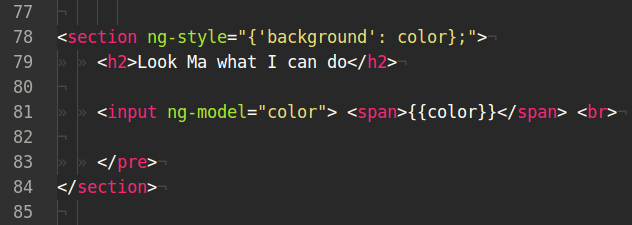
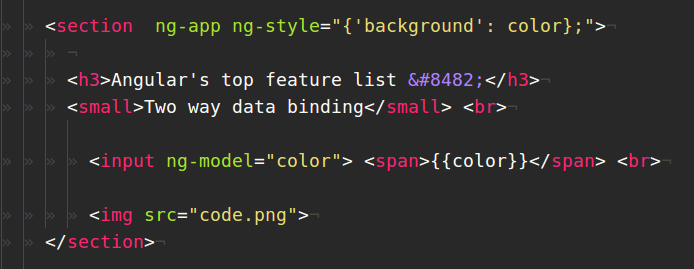
more coding, more examples in presentation

diff --git a/presentation/index.html b/presentation/index.html
@@ -27,45 +27,6 @@
 				</section>
 
 				<section>
-					<h3>Death by Committee</h3>
-					<table>
-
-						<thead>
-						<tr>
-						<td>Angular</td>
-						<td>ECMAScript</td>
-						</tr>
-						</thead>
-
-						<tr>
-
-						<td>
-							<ul>
-								<li><i>Custom</i> Directives</li>
-								<li> Chris Kowal Q Promise</li>
-								<li>Dependency Injection</li>
-								<li>$digest, $watch</li>
-								<li>{{ }}, ng-bind</li>
-							</ul>
-
-						</td>
-
-						<td>
-							<ul class="fragment">
-								<li>Classes (syntactic sugar)</li>
-								<li>Promise Api</li>
-								<li>Modules</li>
-								<li>Object.observe()</li>
-								<li>${templateString}</li>
-							</ul>
-						</td>
-
-					</tr></table>
-
-				</section>
-
-
-				<section>
 					<h3>Numbers don't lie</h3>
 					<img data-src="trends.png">
 					<p class="fragment" style="color:red;">backbonejs</p>
@@ -73,17 +34,44 @@
 					<p class="fragment" style="color:orange;">Angela Merkel</p>
 				</section>
 
+				<section>
+					<h3>Angular's top feature list &#8482;</h3>
+					<small>common language</small> <br>
+					<ul>
+						<li><em>controller</em> - manages a page</li>
+						<li><em>service</em> - contains logic</li>
+						<li><em>resource</em> - REST helper</li>
+						<li><em>template</em> - contains html</li>
+					</ul>
+				</section>
 
+				<section>
+					<h3>Angular's top feature list &#8482;</h3>
+					<small>dependency injection</small> <br>
+					<img src="di.png">
+				</section>
+
+				<section>
+					<h3>Angular's top feature list &#8482;</h3>
+					<small>templates + helpers</small> <br>
+					<img src="templates.png">
+				</section>
 
 				<section  ng-app ng-style="{'background': color};">
-						<h2>Look Ma what I can do</h2>
-
+					<h3>Angular's top feature list &#8482;</h3>
+					<small>Two way data binding</small> <br>
 						<input ng-model="color"> <span>{{color}}</span> <br>
-
-						</pre>
-
 						<img src="code.png">
 				</section>
+
+				<section>
+					<h3>Angular's top feature list &#8482;</h3>
+					<small>directives</small> <br>
+					<img data-src="directives.png">
+				</section>
+
+
+
 
 				<section>
 						<small>Let's do something useful: <b>kicker leader board</b></small>

diff --git a/demo/app/views/dmScoreForm.html b/demo/app/views/dmScoreForm.html
@@ -8,20 +8,21 @@
   <div class="row">
     <div class="col-md-4">
       <h3>Team A </h3>
-      <input type="email">
-      <input type="email">
+      <input type="email" ng-model="score.players.a1">
+      <input type="email" ng-model="score.players.a2">
     </div>
     <div class="col-md-4">
       <h3>VS</h3>
       <form class="form-inline">
-        <input type="text" size="2" maxlength="2"> : <input type="text" size="2" maxlength="2">
+        <input type="text" size="2" maxlength="2" ng-model="score.goals.a"> :
+        <input type="text" size="2" maxlength="2" ng-model="score.goals.b">
       </form>
     </div>
     <div class="col-md-4">
       <h3>Team B </h3>
-      <input type="email">
-      <input type="email">
+      <input type="email" ng-model="score.players.b1">
+      <input type="email" ng-model="score.players.b2">
     </div>
   </div>
-  <p><a class="btn btn-lg btn-success" ng-href="#/">Add Score</span></a></p>
+  <p><a class="btn btn-lg btn-success" ng-disabled="!isValidToSubmit(score)" ng-click="isValidToSubmit(score) && submit(score)">Add Score</span></a></p>
 </div>

diff --git a/demo/app/index.html b/demo/app/index.html
@@ -22,7 +22,9 @@
 
         <!-- logo / name -->
         <div class="navbar-header">
-          <a class="navbar-brand" href="#/"><span class="glyphicon glyphicon-signal"></span> Smava's Kicker Leaderboard  </a>
+          <a class="navbar-brand" href="#/">
+            <span class="glyphicon glyphicon-signal"></span> Smava's Kicker Leaderboard
+          </a>
         </div>
       </div>
     </nav>
@@ -43,11 +45,11 @@
     <!-- build:js(.) scripts/vendor.js -->
     <!-- bower:js -->
     <script src="bower_components/jquery/dist/jquery.js"></script>
+    <script src="bower_components/lodash/lodash.min.js"></script>
     <script src="bower_components/angular/angular.js"></script>
     <script src="bower_components/bootstrap-sass-official/assets/javascripts/bootstrap.js"></script>
     <script src="bower_components/angular-resource/angular-resource.js"></script>
     <script src="bower_components/angular-route/angular-route.js"></script>
-    <script src="bower_components/lodash/lodash.min.js"></script>
     <!-- endbower -->
     <!-- endbuild -->
 

diff --git a/demo/app/scripts/directives/dmScoreForm.js b/demo/app/scripts/directives/dmScoreForm.js
@@ -1,7 +1,34 @@
 angular.module('demoApp').directive('dmScoreForm', dmScoreForm);
 
-function dmScoreForm() {
+function dmScoreForm(_, ScoreService) {
   return {
-    templateUrl: 'views/dmScoreForm.html'
+    templateUrl: 'views/dmScoreForm.html',
+    link: function(scope, element, attrs) {
+
+      // create data structure in template
+      scope.score = {
+        players: {},
+        goals: {}
+      };
+
+      // forward functionality to template
+      scope.isValidToSubmit = isValidToSubmit;
+      scope.submit = submit;
+
+      // return true if all necessary fields are present, otherwise false
+      function isValidToSubmit(score) {
+        return !(_.isEmpty(score.players.a1) || _.isEmpty(score.players.b1)) &&
+        _.isNumber(score.goals.a) && _.isNumber(score.goals.b);
+
+      }
+
+      // submit score, on success reset the form
+      function submit(score) {
+        ScoreService.add(score).then(function() {
+          scope.score.players = {};
+          scope.score.goals = {};
+        });
+      }
+    }
   };
 }

diff --git a/demo/app/views/dmStatistics.html b/demo/app/views/dmStatistics.html
@@ -2,14 +2,17 @@
 
   <!-- some general statistics -->
   <div class="col-md-8">
-    <span>1.223</span> games have been played by <span ng-bind="stats.playerCount"></span>
-    players scoring <span>{{stats.playerCount / stats.goalCount}}</span> goals on average.
+    <span>{{stats.gameCount}}</span> games have been played
+    by <span ng-bind="stats.playerCount"></span>
+    players scoring <span>{{stats.playerCount / stats.goalCount}}</span>
+    goals on average.
   </div>
 
   <!-- the update button -->
   <div class="col-md-4">
     <div class="btn btn-primary"  ng-click="updateStats()">
-      <span class="glyphicon glyphicon-refresh"></span> <span>{{stats.date | date:'medium'}}</span>
+      <span class="glyphicon glyphicon-refresh"></span>
+      <span>{{stats.date | date:'medium'}}</span>
     </div>
   </div>
 </div>
